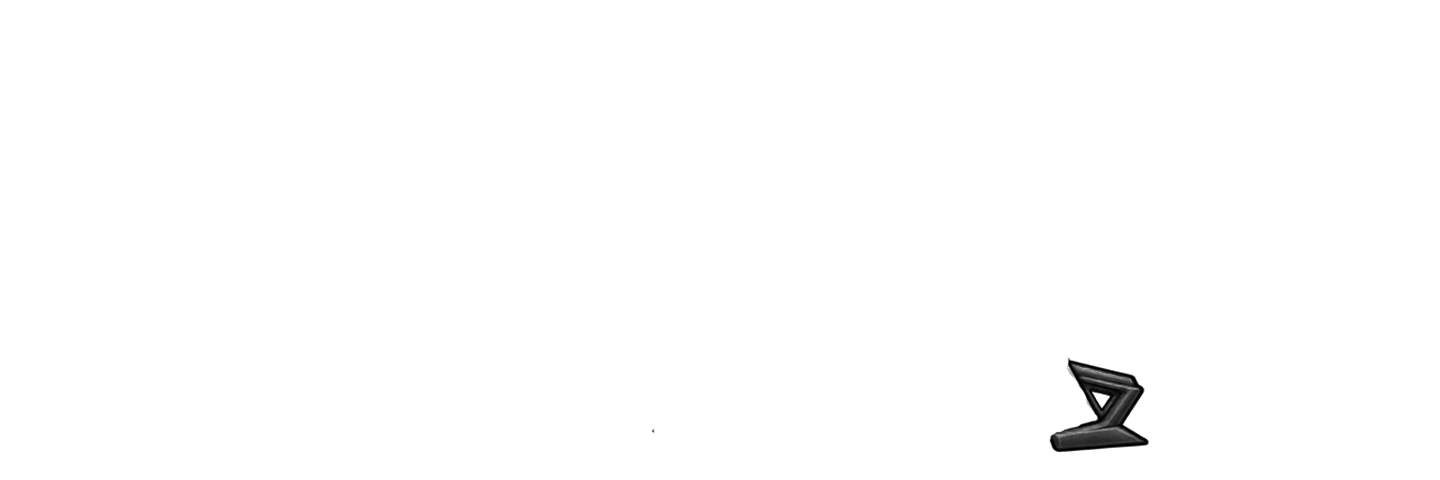
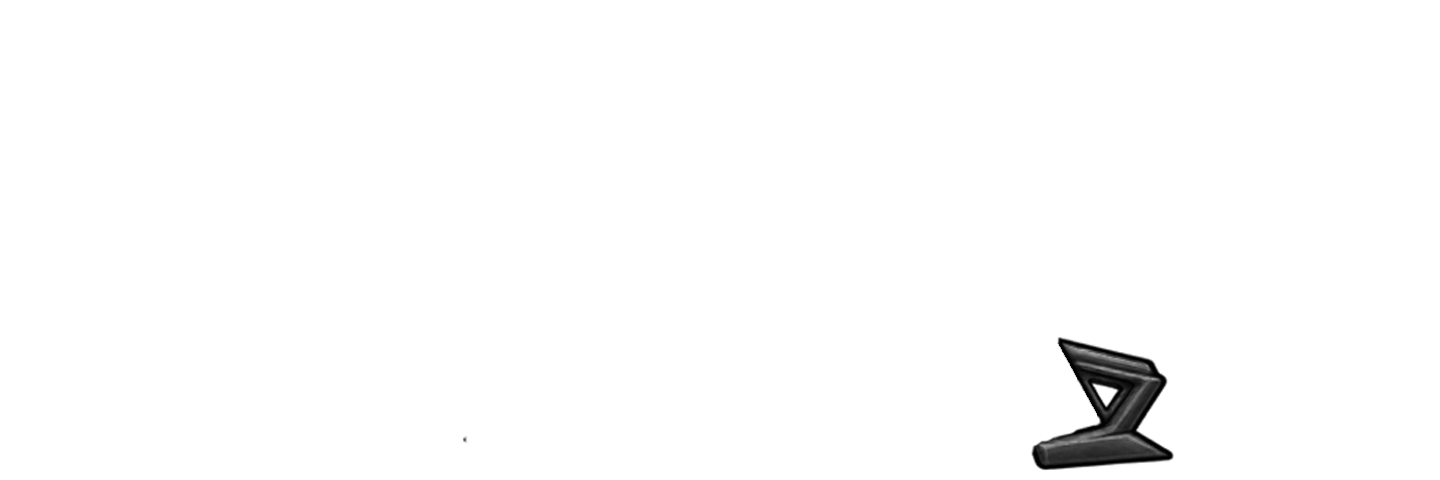
Criação de Assets do Buggy

Changed region(s): [[0.7188, 0.6875, 0.8125, 1.0]]

diff --git a/src/utils/carEquipments.ts b/src/utils/carEquipments.ts
@@ -15,6 +15,7 @@ export type EquipmentSlot =
 export type CarEquipment = {
   id: string;
   name: string;
+  icon: ImageSourcePropType;
   image: ImageSourcePropType;
   requiredLevel: number;
   price: number;
@@ -32,39 +33,84 @@ export const CAR_EQUIPMENTS: Partial<Record<string, CarEquipmentSet>> = {
       {
         id: 'buggy_front_sport_01',
         name: 'Sport I',
+        icon: require('@/assets/images/components/componentsIcons/buggy/frontBumpers/front_sport_01.png'),
         image: require('@/assets/images/cars/carroceria/buggy/frontBumper/front_sport_01.png'),
-        requiredLevel: 1,
-        price: 100,
+        requiredLevel: 3,
+        price: 150,
+      },
+      {
+        id: 'buggy_front_sport_02',
+        name: 'Sport II',
+        icon: require('@/assets/images/components/componentsIcons/buggy/frontBumpers/front_sport_02.png'),
+        image: require('@/assets/images/cars/carroceria/buggy/frontBumper/front_sport_02.png'),
+        requiredLevel: 5,
+        price: 350,
+      },
+      {
+        id: 'buggy_front_sport_03',
+        name: 'Sport III',
+        icon: require('@/assets/images/components/componentsIcons/buggy/frontBumpers/front_sport_03.png'),
+        image: require('@/assets/images/cars/carroceria/buggy/frontBumper/front_sport_03.png'),
+        requiredLevel: 8,
+        price: 1000,
       },
     ],
     rearBumpers: [
       {
         id: 'buggy_rear_sport_01',
         name: 'Sport I',
+        icon: require('@/assets/images/components/componentsIcons/buggy/rearBumpers/rear_sport_01.png'),
         image: require('@/assets/images/cars/carroceria/buggy/rearBumper/rear_sport_01.png'),
-        requiredLevel: 1,
-        price: 100,
+        requiredLevel: 3,
+        price: 150,
+      },
+      {
+        id: 'buggy_rear_sport_02',
+        name: 'Sport II',
+        icon: require('@/assets/images/components/componentsIcons/buggy/rearBumpers/rear_sport_02.png'),
+        image: require('@/assets/images/cars/carroceria/buggy/rearBumper/rear_sport_02.png'),
+        requiredLevel: 5,
+        price: 350,
+      },
+      {
+        id: 'buggy_rear_sport_03',
+        name: 'Sport III',
+        icon: require('@/assets/images/components/componentsIcons/buggy/rearBumpers/rear_sport_03.png'),
+        image: require('@/assets/images/cars/carroceria/buggy/rearBumper/rear_sport_03.png'),
+        requiredLevel: 8,
+        price: 1000,
       },
     ],
-    spoilers: [{
-      id: 'buggy_spoiler_sport_01',
-      name: 'Sport I',
-      image: require('@/assets/images/cars/carroceria/buggy/spoiler/buggy_spoiler_sport_01.png'),
-      requiredLevel: 1,
-      price: 100,
-    },],
+    spoilers: [
+      {
+        id: 'buggy_spoiler_sport_01',
+        name: 'Sport I',
+        icon: require('@/assets/images/components/componentsIcons/buggy/spoilers/buggy_spoiler_sport_01.png'),
+        image: require('@/assets/images/cars/carroceria/buggy/spoiler/buggy_spoiler_sport_01.png'),
+        requiredLevel: 3,
+        price: 150,
+      },
+      {
+        id: 'buggy_spoiler_sport_02',
+        name: 'Sport II',
+        icon: require('@/assets/images/components/componentsIcons/buggy/spoilers/buggy_spoiler_sport_02.png'),
+        image: require('@/assets/images/cars/carroceria/buggy/spoiler/buggy_spoiler_sport_02.png'),
+        requiredLevel: 5,
+        price: 350,
+      },
+      {
+        id: 'buggy_spoiler_sport_03',
+        name: 'Sport III',
+        icon: require('@/assets/images/components/componentsIcons/buggy/spoilers/buggy_spoiler_sport_03.png'),
+        image: require('@/assets/images/cars/carroceria/buggy/spoiler/buggy_spoiler_sport_03.png'),
+        requiredLevel: 8,
+        price: 1000,
+      },
+    ],
     sideSkirts: [],
   },
   fusca: {
-    frontBumpers: [
-      {
-        id: 'fusca_front_sport_01',
-        name: 'Sport I',
-        image: require('@/assets/images/cars/carroceria/fusca/frontBumpers/front_sport_01.png'),
-        requiredLevel: 3,
-        price: 180,
-      },
-    ],
+    frontBumpers: [],
     rearBumpers: [],
     spoilers: [],
     sideSkirts: [],

diff --git a/app/OficinaScreen.tsx b/app/OficinaScreen.tsx
@@ -857,11 +857,11 @@ export default function OficinaScreen() {
                                                                         style={styles.equipmentPreviewButton}
                                                                         onPress={() => setPreviewEquipment(current => ({ ...current, [category.slot]: item.id }))}
                                                                     >
-                                                                        <Image source={item.image} resizeMode="cover" style={styles.equipmentThumb} />
+                                                                        <Image source={item.icon} resizeMode="cover" style={styles.equipmentThumb} />
                                                                         <View style={{ flex: 1 }}>
                                                                             <Text style={styles.equipmentName}>{item.name.toUpperCase()}</Text>
                                                                             <Text style={styles.equipmentMeta}>
-                                                                                {locked ? `🔒  ${t('workshop.level')}  ${item.requiredLevel}` : owned ? (equipped ? ` ${t('workshop.equipped')}` : ` ${t('workshop.purchased')}`) : `🎨 ${item.price}`}
+                                                                                {locked ? `🔒  ${t('workshop.level')}  ${item.requiredLevel}` : owned ? (equipped ? ` ${t('workshop.equipped')}` : ` ${t('workshop.owned')}`) : `🎨 ${item.price}`}
                                                                             </Text>
                                                                         </View>
                                                                     </TouchableOpacity>

diff --git a/context/CarContext.tsx b/context/CarContext.tsx
@@ -1,5 +1,5 @@
-import { carMaps } from '@/src/utils/carMaps';
 import type { EquippedCarEquipment, PaintFinishId } from '@/src/types/playerTypes';
+import { carMaps } from '@/src/utils/carMaps';
 import React, { createContext, useContext, useState } from 'react';
 
 type CarKey = keyof typeof carMaps;
@@ -28,8 +28,8 @@ const CarContext = createContext<CarContextType | undefined>(undefined);
 
 export const CarProvider: React.FC<{ children: React.ReactNode }> = ({ children }) => {
   const [selectedCar, setSelectedCar] = useState<CarKey>('fusca');
-  const [selectedColorFront, setSelectedColorFront] = useState('#FF3B30');
-  const [selectedColorBack, setSelectedColorBack] = useState('#FF3B30');
+  const [selectedColorFront, setSelectedColorFront] = useState('#2c2a2a');
+  const [selectedColorBack, setSelectedColorBack] = useState('#0c0c0c');
   const [selectedFinishId, setSelectedFinishId] = useState<PaintFinishId>('solid');
   const [selectedEquipment, setSelectedEquipment] = useState<EquippedCarEquipment>(EMPTY_EQUIPMENT);
 

diff --git a/src/utils/carPaints.ts b/src/utils/carPaints.ts
@@ -10,8 +10,8 @@ export type PaintFinishDefinition = {
 };
 
 export const DEFAULT_CAR_PAINT = {
-  primaryColor: '#FF3B30',
-  secondaryColor: '#FF3B30',
+  primaryColor: '#353232',
+  secondaryColor: '#080808',
   finishId: 'solid' as PaintFinishId,
 };
 

diff --git a/components/Game/CarEquipmentLayers.tsx b/components/Game/CarEquipmentLayers.tsx
@@ -75,7 +75,7 @@ const styles = StyleSheet.create({
     position: 'absolute',
     left: 0,
     top: 0,
-    zIndex: 1,
+    zIndex: 1000,
     overflow: 'visible',
   },
 
